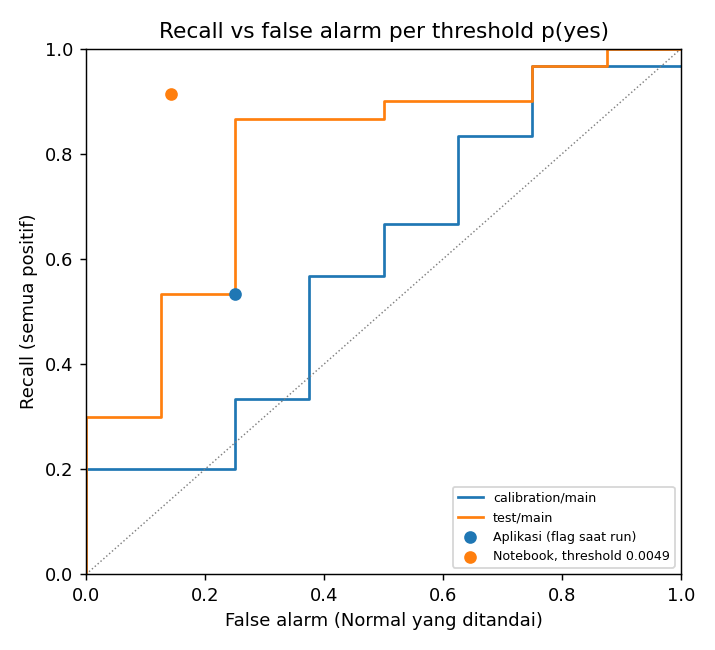
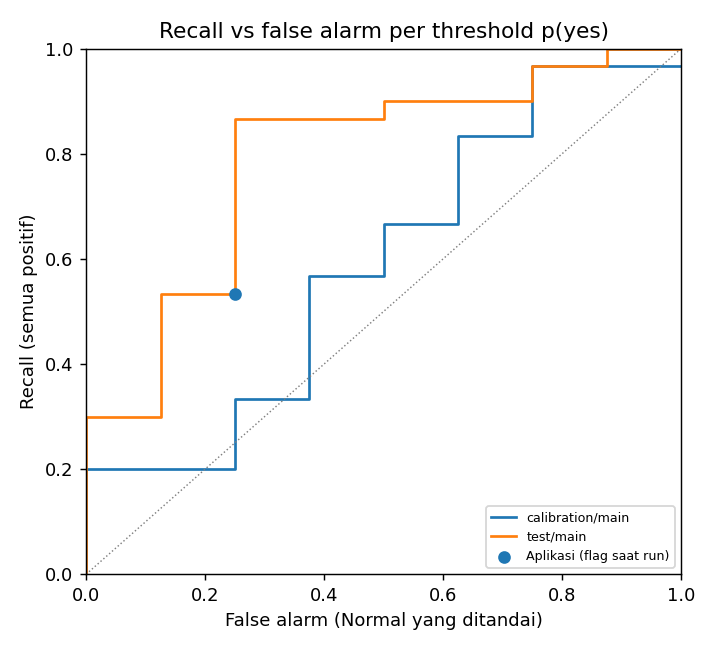
eval: hasil test perbandingan analyze_app_eva

Changed region(s): [[0.6154, 0.7385, 0.9538, 0.8923], [0.9231, 0.7385, 0.9538, 0.7692], [0.2154, 0.1231, 0.2462, 0.1538]]

diff --git a/eval/runs/qwen_cal/report/report.md b/eval/runs/qwen_cal/report/report.md
@@ -15,7 +15,7 @@
 
 ## Hasil utama (held-out test)
 
-Angka notebook dikutip dari output `evaluation.ipynb` (sel 16, 18, 20). Dua acuan dipakai karena angka 0,914 di slide berasal dari threshold 0,0049 pada skor notebook; baris 'flag yes/no' adalah acuan yang memakai flag yang dibangkitkan model.
+Angka notebook bawaan dikutip dari output `evaluation.ipynb` (sel 16, 18, 20) dan dihitung pada set penuh test (main: 91 klip, person_optional: 21 klip). Angka itu hanya ditampilkan bila run ini berukuran sama; untuk subset, berikan `--notebook-predictions` agar dihitung pada klip yang sama. Dua acuan dipakai karena angka 0,914 di slide berasal dari threshold 0,0049 pada skor notebook; baris 'flag yes/no' adalah acuan yang memakai flag yang dibangkitkan model.
 
 Baris **Aplikasi** memakai flag yang diputuskan aplikasi saat run (threshold p(yes) = 0.5). Bagian 'Kurva threshold' di bawah menyapu semua threshold dari skor yang direkam.
 
@@ -23,29 +23,25 @@ Baris **Aplikasi** memakai flag yang diputuskan aplikasi saat run (threshold p(y
 
 | Pipeline | Recall (semua positif) | Precision | F1 | False alarm (Normal) | Review rate | TP/FN/FP/TN |
 |---|---|---|---|---|---|---|
-| Notebook, flag yes/no (gated_8) | 0.629 | 1.000 | 0.772 | 0.000 | 0.483 | 44/26/0/21 |
-| Notebook, flag yes/no (ungated_8) | 0.614 | 1.000 | 0.761 | 0.000 | 0.472 | 43/27/0/21 |
-| Notebook, flag yes/no (gated_16) | 0.586 | 1.000 | 0.739 | 0.000 | 0.451 | 41/29/0/21 |
-| Notebook, threshold 0.0049 (slide: 0.914) | 0.914 | 0.955 | 0.934 | 0.143 | 0.736 | 64/6/3/18 |
 | **Aplikasi** (flag model) | 0.533 [0.367-0.700] | 0.889 [0.672-0.969] | 0.667 [0.512-0.800] | 0.250 [0.071-0.591] | 0.474 [0.316-0.632] | 16/14/2/6 |
 
 Baris aplikasi menampilkan CI 95%: recall, F1 dan review rate dengan bootstrap (2000 resampel, positif dan Normal diambil terpisah); precision dan false alarm dengan interval Wilson, karena bootstrap memberi interval selebar nol saat jumlah kejadiannya nol.
 
+**Catatan pembanding:** Baris notebook dihilangkan: angka bawaan skrip dihitung pada 91 klip (70 positif), sedangkan run ini 38 klip (30 positif), sehingga tidak sebanding. Berikan `--notebook-predictions` (predictions.jsonl notebook) agar dihitung ulang pada klip yang sama.
+
 Coverage aplikasi: 100.0% (38/38 valid; 0 positif dan 0 Normal tidak valid). Recall dihitung atas semua positif, jadi output tidak valid dihitung sebagai terlewat.
 
-- Recall aplikasi 0.533: tidak dapat dibedakan dari notebook flag yes/no; CI 0.367-0.700 mencakup 0.629.
-- Terhadap angka di slide: lebih rendah dari angka di slide; batas atas CI 0.700 di bawah 0.914.
 - Target operasional notebook adalah recall 0,90: belum tercapai pada titik estimasi.
 
 ### test / person_optional (n=9, positif=9, Normal=0)
 
 | Pipeline | Recall (semua positif) | Precision | F1 | False alarm (Normal) | Review rate | TP/FN/FP/TN |
 |---|---|---|---|---|---|---|
-| Notebook, flag yes/no (gated_8) | 0.524 | 1.000 | 0.688 | n/a | 0.524 | 11/10/0/0 |
-| Notebook, threshold 0.0049 (slide: 0.914) | 0.714 | 1.000 | 0.833 | n/a | 0.714 | 15/6/0/0 |
 | **Aplikasi** (flag model) | 0.444 [0.111-0.778] | 1.000 [0.510-1.000] | 0.615 [0.200-0.875] | n/a | 0.444 [0.111-0.778] | 4/5/0/0 |
 
 Baris aplikasi menampilkan CI 95%: recall, F1 dan review rate dengan bootstrap (2000 resampel, positif dan Normal diambil terpisah); precision dan false alarm dengan interval Wilson, karena bootstrap memberi interval selebar nol saat jumlah kejadiannya nol.
+
+**Catatan pembanding:** Baris notebook dihilangkan: angka bawaan skrip dihitung pada 21 klip (21 positif), sedangkan run ini 9 klip (9 positif), sehingga tidak sebanding. Berikan `--notebook-predictions` (predictions.jsonl notebook) agar dihitung ulang pada klip yang sama.
 
 Coverage aplikasi: 100.0% (9/9 valid; 0 positif dan 0 Normal tidak valid). Recall dihitung atas semua positif, jadi output tidak valid dihitung sebagai terlewat.
 
@@ -58,13 +54,13 @@ Coverage aplikasi: 100.0% (9/9 valid; 0 positif dan 0 Normal tidak valid). Recal
 | Titik operasi | Threshold | Recall (semua positif) | False alarm (Normal) | Precision | Review rate | TP/FN/FP/TN |
 |---|---|---|---|---|---|---|
 | Aplikasi (flag saat run) | 0.5 | 0.533 [0.367-0.700] | 0.250 [0.071-0.591] | 0.889 | 0.474 | 16/14/2/6 |
-| Notebook, threshold 0.0049 (skala skor berbeda) | 0.0049 | 0.914 | 0.143 | 0.955 | 0.736 | 64/6/3/18 |
 | Dipilih di calibration (recall ≥ 90%), dibekukan | 2.45617e-09 | 0.900 [0.800-1.000] | 0.750 [0.409-0.929] | 0.818 | 0.868 | 27/3/6/2 |
 
 Recall dihitung atas semua positif; CI 95% bootstrap untuk recall, Wilson untuk false alarm. Skor p(yes) dari model 4B cenderung jenuh (mendekati 0 atau 1), jadi banyak video bisa berbagi skor yang sama dan recall naik dalam lompatan besar.
 
+- Baris notebook dihilangkan: angka bawaan skrip dihitung pada 91 klip (70 positif), sedangkan run ini 38 klip (30 positif), sehingga tidak sebanding. Berikan `--notebook-predictions` (predictions.jsonl notebook) agar dihitung ulang pada klip yang sama.
 - Split calibration kecil (30 positif, 9 Normal; batas yang disarankan 10 dan 30). Threshold yang dipilih darinya tidak stabil.
-- Recall di titik terbekukan: tidak dapat dibedakan dari angka di slide; CI 0.800-1.000 mencakup 0.914; target 90% tercapai di test.
+- Recall di titik terbekukan: target 90% tercapai di test.
 - Threshold 2.45617e-09 ada di ekor jenuh (dekat 0 atau 1). Nilai sedekat itu rapuh terhadap perubahan model, kuantisasi atau perangkat; periksa kurva dan titik yang lebih longgar sebelum dipakai.
 
 Grafik: `threshold_curve.png`. File `threshold_curve.csv` berisi seluruh tabel per threshold.
